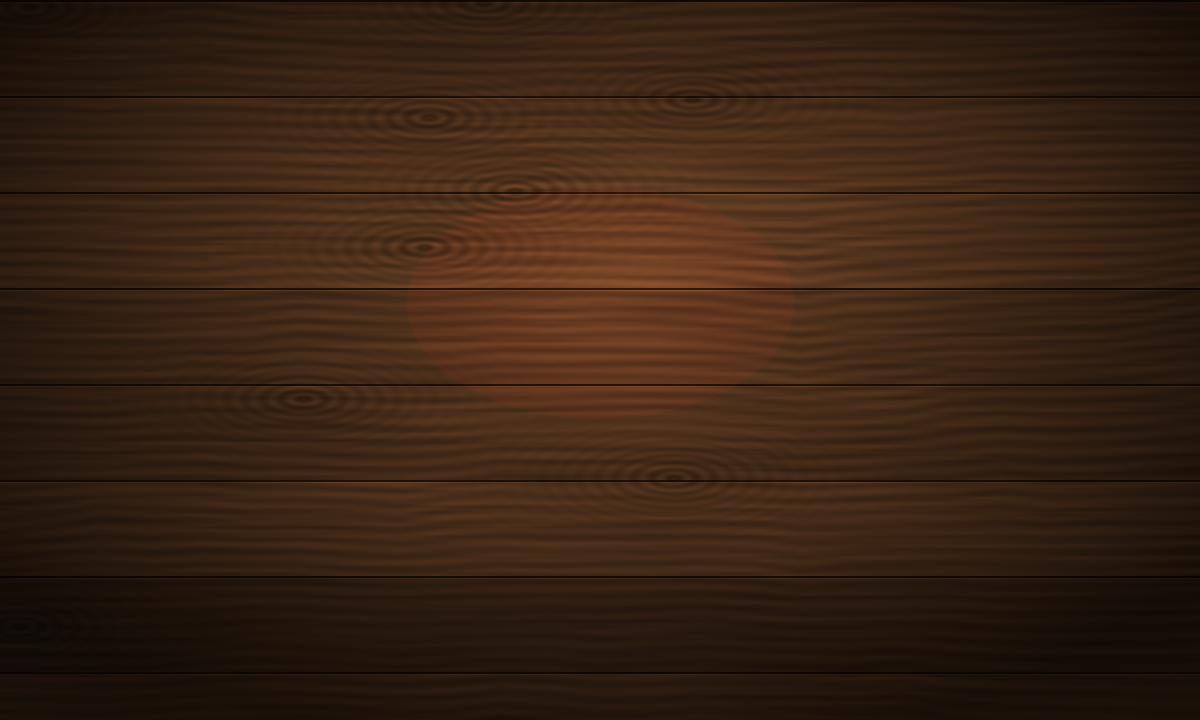
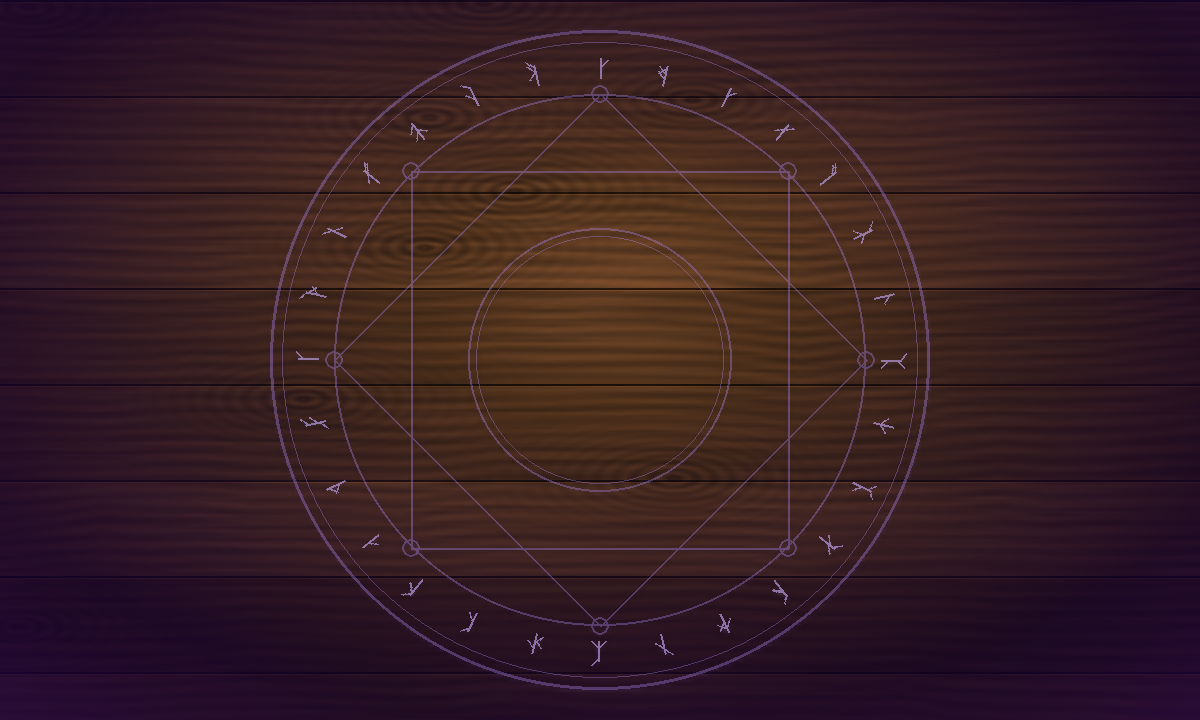
한국풍 요소를 걷어내고 마법 게임 분위기로
- 탁자: 가장자리 보랏빛 마력 안개 + 룬·팔각별 마법진 (make_theme.magic_circle)
- 모든 화면에 천천히 떠오르며 깜빡이는 마력 불빛 (ui.sparkles)
- 족자처럼 보이던 두루마리 → 금장식 모서리와 보랏빛 기운의 마법서 한 장 (ui.scroll)
- 낙관처럼 보이던 붉은 도장 번호 → 보랏빛 룬 돌 (ui.seal)
- 붓글씨처럼 보이던 명조체 제목 → 굵은 고딕 + 금색 글자 + 보랏빛 번짐 (ui.title)
- 타이틀: Grid Hunt (Cinzel Decorative) + 격자 사냥, 버튼에 보랏빛 보석 못과 마우스 올림 빛

diff --git a/ui.py b/ui.py
@@ -10,11 +10,11 @@ import os
 import pygame
 
 from settings import (W, H, FONT_NAME, INK, INK_LIGHT, PARCHMENT, CREAM, GOLD, WAX,
-                      BOARD_RECT)
+                      BOARD_RECT, ARCANE, ARCANE_LIGHT)
 
 IMAGE_DIR = os.path.join(os.path.dirname(os.path.abspath(__file__)), "assets", "images")
 SERIF = "notoserifkr,batang,applemyungjo,nanummyeongjo"   # 제목용 명조체
-BIG_SERIF = 30          # 이 크기 이상의 제목만 명조체
+BIG_SERIF = 999         # 명조체는 붓글씨처럼 보여서 쓰지 않음 (제목도 굵은 고딕 + 금빛·보랏빛)
 MIN_SIZE = 10           # 글자를 줄여서 맞출 때 최소 크기
 
 _fonts = {}    # (크기, 명조, 굵게) → 폰트 (매 프레임 새로 만들지 않도록)
@@ -100,14 +100,31 @@ def fit_size(text, size, width, serif=False):
     return size
 
 
-def title(surf, x, y, text, size=40, color=GOLD, outline=INK):
-    """테두리 있는 큰 제목 (나무 위에서도 잘 보이게)."""
-    f = font(size, serif=True, bold=True)
-    base = f.render(text, True, outline)
-    rect = base.get_rect(center=(x, y))
-    for dx, dy in ((-2, 0), (2, 0), (0, -2), (0, 2), (-2, -2), (2, 2), (2, -2), (-2, 2), (1, 3)):
-        surf.blit(base, rect.move(dx, dy))
-    surf.blit(f.render(text, True, color), rect)
+def glow_text(img, color, radius=6, strength=170):
+    """글자 모양을 흐리게 번지게 한 빛 (마법 빛남)."""
+    w, h = img.get_size()
+    pad = radius * 2
+    base = pygame.Surface((w + pad * 2, h + pad * 2), pygame.SRCALPHA)
+    tint = img.copy()
+    tint.fill((*color, 255), special_flags=pygame.BLEND_RGBA_MIN)
+    base.blit(tint, (pad, pad))
+    small = pygame.transform.smoothscale(base, (max(1, base.get_width() // radius), max(1, base.get_height() // radius)))
+    glow = pygame.transform.smoothscale(small, base.get_size())
+    glow.set_alpha(strength)
+    return glow, pad
+
+
+def title(surf, x, y, text, size=40, color=GOLD, outline=INK, glow=ARCANE, deco_font=False):
+    """빛나는 큰 제목: 보랏빛 번짐 + 진한 테두리 + 금색 글자. deco_font=True 면 영어 장식 글꼴."""
+    f = (lambda s: deco(s)) if deco_font else (lambda s: font(s))
+    img = f(size).render(text, True, color)
+    rect = img.get_rect(center=(x, y))
+    g, pad = glow_text(img, glow, max(4, size // 6))
+    surf.blit(g, (rect.x - pad, rect.y - pad))
+    edge = f(size).render(text, True, outline)
+    for dx, dy in ((-2, 0), (2, 0), (0, -2), (0, 2), (1, 3)):
+        surf.blit(edge, rect.move(dx, dy))
+    surf.blit(img, rect)
 
 
 def wrap(text, size, width, serif=False):
@@ -142,12 +159,46 @@ def wrap(text, size, width, serif=False):
 # 배경 · 양피지
 # ======================================================================
 def background(surf):
-    """화면 전체 나무 탁자."""
+    """화면 전체: 마법진이 새겨진 나무 탁자 + 떠다니는 마력 불빛."""
     bg = _image("bg_table.png")
     if bg:
         surf.blit(bg, (0, 0))
     else:
         surf.fill((70, 44, 26))
+    sparkles(surf)
+
+
+_motes = []
+
+
+def sparkles(surf):
+    """천천히 위로 떠오르며 깜빡이는 작은 마력 불빛 (보라·하늘·금). 시간에 따라 움직임."""
+    if not _motes:
+        import random
+        rng = random.Random(11)
+        for _ in range(46):
+            _motes.append((rng.uniform(0, W), rng.uniform(0, H), rng.uniform(8, 26), rng.uniform(0, 6.28),
+                           rng.choice([ARCANE_LIGHT, (150, 210, 255), GOLD]), rng.uniform(1.5, 3.2)))
+    t = pygame.time.get_ticks() / 1000
+    key = ("mote", 0)
+    if key not in _cache:
+        dot = pygame.Surface((24, 24), pygame.SRCALPHA)
+        for r in range(12, 0, -1):
+            pygame.draw.circle(dot, (255, 255, 255, int(90 * (1 - r / 12) ** 1.5)), (12, 12), r)
+        _cache[key] = dot
+    for x0, y0, speed, phase, color, size in _motes:
+        y = (y0 - t * speed) % (H + 40) - 20
+        x = x0 + math.sin(t * 0.6 + phase) * 14
+        twinkle = 0.45 + 0.55 * (0.5 + 0.5 * math.sin(t * 2.2 + phase * 3))
+        ck = ("mote", color)
+        if ck not in _cache:
+            d = _cache[key].copy()
+            d.fill((*color, 255), special_flags=pygame.BLEND_RGBA_MULT)
+            _cache[ck] = d
+        d = _cache[ck]
+        d.set_alpha(int(255 * twinkle))
+        surf.blit(d, (x - 12, y - 12))
+        pygame.draw.circle(surf, color, (x, y), max(1, int(size * twinkle * 0.6)))
 
 
 def board(surf):
@@ -239,37 +290,54 @@ def mat(surf, rect):
 
 
 def scroll(surf, rect):
-    """위아래에 나무 막대가 달린 두루마리 양피지."""
+    """마법서 한 장: 보랏빛 마력이 번지는 양피지 + 금색 모서리 장식 + 위쪽 가운데 보석."""
     rect = pygame.Rect(rect)
-    panel(surf, rect, radius=4)
-    for y in (rect.y - 8, rect.bottom - 10):
-        rod = pygame.Rect(rect.x - 18, y, rect.w + 36, 18)
-        pygame.draw.rect(surf, (98, 58, 30), rod, border_radius=9)
-        pygame.draw.line(surf, (150, 100, 58), (rod.x + 10, rod.y + 5), (rod.right - 10, rod.y + 5), 3)
-        pygame.draw.rect(surf, INK, rod, 2, border_radius=9)
-        for x in (rod.x - 4, rod.right - 10):                         # 막대 끝 손잡이
-            pygame.draw.circle(surf, GOLD, (x + 7, rod.centery), 10)
-            pygame.draw.circle(surf, INK, (x + 7, rod.centery), 10, 2)
+    key = ("aura", rect.size)
+    if key not in _cache:
+        a = pygame.Surface((rect.w + 80, rect.h + 80), pygame.SRCALPHA)
+        pygame.draw.rect(a, (*ARCANE, 150), (40, 40, rect.w, rect.h), border_radius=18)
+        small = pygame.transform.smoothscale(a, (max(1, a.get_width() // 14), max(1, a.get_height() // 14)))
+        _cache[key] = pygame.transform.smoothscale(small, a.get_size())
+    surf.blit(_cache[key], (rect.x - 40, rect.y - 40))
+    panel(surf, rect, radius=8)
+    pygame.draw.rect(surf, GOLD, rect.inflate(-14, -14), 2, border_radius=6)
+    for sx, sy in ((1, 1), (-1, 1), (1, -1), (-1, -1)):           # 모서리 금장식 (꺾쇠 + 작은 원)
+        cx = rect.x + 7 if sx > 0 else rect.right - 8
+        cy = rect.y + 7 if sy > 0 else rect.bottom - 8
+        pygame.draw.lines(surf, GOLD, False, [(cx, cy + sy * 46), (cx, cy), (cx + sx * 46, cy)], 5)
+        pygame.draw.lines(surf, INK, False, [(cx, cy + sy * 46), (cx, cy), (cx + sx * 46, cy)], 1)
+        pygame.draw.circle(surf, GOLD, (cx + sx * 14, cy + sy * 14), 6)
+        pygame.draw.circle(surf, ARCANE, (cx + sx * 14, cy + sy * 14), 3)
+    gem(surf, (rect.centerx, rect.y + 7), 11)
+
+
+def gem(surf, center, r):
+    """마름모 보석 (보라) + 금 테."""
+    cx, cy = center
+    pts = [(cx, cy - r), (cx + r, cy), (cx, cy + r), (cx - r, cy)]
+    pygame.draw.polygon(surf, GOLD, [(cx, cy - r - 4), (cx + r + 4, cy), (cx, cy + r + 4), (cx - r - 4, cy)])
+    pygame.draw.polygon(surf, ARCANE, pts)
+    pygame.draw.polygon(surf, ARCANE_LIGHT, [(cx, cy - r), (cx + r // 2, cy - r // 3), (cx - r // 2, cy - r // 3)])
+    pygame.draw.polygon(surf, INK, [(cx, cy - r - 4), (cx + r + 4, cy), (cx, cy + r + 4), (cx - r - 4, cy)], 2)
 
 
 def seal(surf, center, text, radius=14):
-    """봉랍 도장 (빨간 밀랍 + 글자). 행동 큐 순서 번호 등."""
-    key = ("seal", radius)
+    """룬 돌: 보랏빛으로 빛나는 짙은 원판 + 금 테 + 번호 (행동 큐 순서 등)."""
+    key = ("rune", radius)
     if key not in _cache:
-        s = pygame.Surface((radius * 2 + 4, radius * 2 + 4), pygame.SRCALPHA)
-        c = radius + 2
-        pts = []
-        for i in range(18):                                          # 울퉁불퉁한 가장자리
-            a = i * math.pi / 9
-            r = radius + (2 if i % 2 else -1)
-            pts.append((c + r * math.cos(a), c + r * math.sin(a)))
-        pygame.draw.polygon(s, WAX, pts)
-        pygame.draw.circle(s, (178, 52, 44), (c, c), radius - 4)
-        pygame.draw.circle(s, (110, 20, 18), (c, c), radius - 4, 2)
+        size = radius * 2 + 16
+        s = pygame.Surface((size, size), pygame.SRCALPHA)
+        c = size // 2
+        for r in range(radius + 8, radius, -1):                 # 바깥 빛
+            pygame.draw.circle(s, (*ARCANE, int(70 * (1 - (r - radius) / 8))), (c, c), r)
+        pygame.draw.circle(s, (46, 30, 70), (c, c), radius)
+        pygame.draw.circle(s, (78, 54, 120), (c - radius // 4, c - radius // 4), radius // 2)
+        pygame.draw.circle(s, GOLD, (c, c), radius, 2)
+        pygame.draw.circle(s, ARCANE_LIGHT, (c, c), radius - 4, 1)
         _cache[key] = s
     img = _cache[key]
     surf.blit(img, img.get_rect(center=center))
-    label(surf, center[0], center[1], text, max(11, radius - 2), CREAM)
+    deco_label(surf, center[0], center[1] + 1, text, max(10, radius), ARCANE_LIGHT)
 
 
 def stars_text(n, total=3):
@@ -301,8 +369,9 @@ def _plaque(size, hover):
         s.blit(mask, (0, 0), special_flags=pygame.BLEND_RGBA_MULT)
         pygame.draw.rect(s, (40, 24, 12), (0, 0, w, h), 3, border_radius=10)
         pygame.draw.rect(s, GOLD if hover else (196, 150, 70), (5, 5, w - 10, h - 10), 2, border_radius=7)
-        for x, y in ((10, 10), (w - 11, 10), (10, h - 11), (w - 11, h - 11)):   # 모서리 금 못
-            pygame.draw.circle(s, GOLD, (x, y), 3)
+        for x, y in ((10, 10), (w - 11, 10), (10, h - 11), (w - 11, h - 11)):   # 모서리 보랏빛 보석 못
+            pygame.draw.circle(s, GOLD, (x, y), 4)
+            pygame.draw.circle(s, ARCANE_LIGHT if hover else ARCANE, (x, y), 2)
         _cache[key] = s
     return _cache[key]
 
@@ -318,6 +387,14 @@ class Button:
     def draw(self, surf):
         hover = self.rect.collidepoint(pygame.mouse.get_pos())
         surf.blit(_shadow(self.rect.size, 10), (self.rect.x - 20 + 3, self.rect.y - 20 + 5))
+        if hover:                                                   # 마우스를 올리면 보랏빛 마력이 번짐
+            key = ("btnglow", self.rect.size)
+            if key not in _cache:
+                gsurf = pygame.Surface((self.rect.w + 40, self.rect.h + 40), pygame.SRCALPHA)
+                pygame.draw.rect(gsurf, (*ARCANE, 200), (20, 20, *self.rect.size), border_radius=12)
+                small = pygame.transform.smoothscale(gsurf, (max(1, gsurf.get_width() // 8), max(1, gsurf.get_height() // 8)))
+                _cache[key] = pygame.transform.smoothscale(small, gsurf.get_size())
+            surf.blit(_cache[key], (self.rect.x - 20, self.rect.y - 20))
         surf.blit(_plaque(self.rect.size, hover), self.rect)
         cx, cy = self.rect.center
         size = fit_size(self.text, self.size, self.rect.w - 24)         # 명판 안에 들어가게

diff --git a/assets/make_theme.py b/assets/make_theme.py
@@ -105,13 +105,60 @@ def table():
     rgb[seam < 2] *= 0.35
     rgb[(seam >= 2) & (seam < 3)] *= 1.25
 
-    # 촛불 빛: 가운데 따뜻하게, 가장자리 어둡게
+    # 촛불 빛은 가운데만 따뜻하게, 가장자리는 보랏빛 마력 안개로 어둡게
     cx, cy = w * 0.5, h * 0.42
     r = np.sqrt(((x - cx) / w) ** 2 + ((y - cy) / h) ** 2)
-    light = np.clip(1.25 - r * 1.55, 0.28, 1.25)
+    light = np.clip(1.2 - r * 1.7, 0.22, 1.2)
     rgb = rgb * light[:, :, None]
-    rgb[:, :, 0] += 10 * (light > 1)
-    return to_surface(rgb)
+    fog = np.clip(r * 1.6 - 0.25, 0, 1) * (0.6 + 0.4 * fbm(h, w, base=3, octaves=3))
+    rgb[:, :, 0] += 26 * fog
+    rgb[:, :, 2] += 58 * fog
+    surf = to_surface(rgb)
+    magic_circle(surf, (w // 2, h // 2), 330)
+    return surf
+
+
+def rune(surf, center, size, seed, color):
+    """선으로 그린 룬 글자 하나 (세로 줄기 + 가지 몇 개). seed 마다 모양이 다름."""
+    rng = np.random.default_rng(seed)
+    cx, cy = center
+    h = size
+    pygame.draw.line(surf, color, (cx, cy - h / 2), (cx, cy + h / 2), 2)
+    for _ in range(int(rng.integers(1, 4))):
+        y0 = cy + rng.uniform(-h / 2, h / 4)
+        side = rng.choice([-1, 1])
+        y1 = y0 + rng.choice([-1, 1]) * h * 0.35
+        pygame.draw.line(surf, color, (cx, y0), (cx + side * h * 0.35, y1), 2)
+
+
+def magic_circle(surf, center, radius):
+    """탁자에 새겨진 마법진: 원 여러 개 + 팔각별(사각형 두 개) + 룬 고리 + 은은한 보랏빛."""
+    w, h = surf.get_size()
+    lines = pygame.Surface((w, h), pygame.SRCALPHA)
+    col = (180, 140, 250, 85)
+    cx, cy = center
+    for rr, width in ((radius, 3), (radius - 12, 1), (radius - 64, 2), (radius * 0.4, 2), (radius * 0.4 - 8, 1)):
+        pygame.draw.circle(lines, col, center, int(rr), width)
+    inner = radius - 64
+    for k in range(2):                                           # 팔각별: 45도 엇갈린 사각형 두 개
+        pts = [(cx + inner * math.cos(math.radians(k * 45 + i * 90)),
+                cy + inner * math.sin(math.radians(k * 45 + i * 90))) for i in range(4)]
+        pygame.draw.polygon(lines, col, pts, 2)
+    n = 28
+    for i in range(n):                                           # 바깥 고리의 룬
+        a = math.radians(i * 360 / n)
+        r = radius - 38
+        glyph = pygame.Surface((30, 30), pygame.SRCALPHA)
+        rune(glyph, (15, 15), 20, i, (205, 175, 255, 150))
+        glyph = pygame.transform.rotate(glyph, -math.degrees(a) - 90)
+        lines.blit(glyph, glyph.get_rect(center=(cx + r * math.cos(a), cy + r * math.sin(a))))
+    for i in range(8):                                           # 팔각별 꼭짓점의 작은 원
+        a = math.radians(i * 45)
+        pygame.draw.circle(lines, col, (cx + inner * math.cos(a), cy + inner * math.sin(a)), 9, 2)
+    glow = blur(lines, 5)
+    glow.set_alpha(150)
+    surf.blit(glow, (0, 0))
+    surf.blit(lines, (0, 0))
 
 
 # ======================================================================

diff --git a/scenes.py b/scenes.py
@@ -79,11 +79,12 @@ class TitleScene(Scene):
             assets.draw_item(surf, pygame.Rect(930 + k * 54, 600, 56, 56), b)
 
         ui.scroll(surf, (W // 2 - 290, 96, 580, 320))
-        label(surf, W // 2, 150, "마법 학교 졸업 시험", 18, INK_LIGHT, width=500, max_lines=1)
-        label(surf, W // 2, 228, "격자 사냥", 76, INK, serif=True, width=500, max_lines=1)
-        pygame.draw.line(surf, INK_LIGHT, (W // 2 - 180, 290), (W // 2 + 180, 290), 2)
-        pygame.draw.polygon(surf, INK, [(W // 2, 282), (W // 2 + 8, 290), (W // 2, 298), (W // 2 - 8, 290)])
-        label(surf, W // 2, 343, "카드로 행동을 짜고, 탄창 하나로\n지하 미궁을 탈출하라", 20, INK, width=440, max_lines=2)
+        label(surf, W // 2, 146, "마법 학교 졸업 시험", 17, INK_LIGHT, width=500, max_lines=1)
+        ui.title(surf, W // 2, 210, "Grid Hunt", 70, deco_font=True)
+        label(surf, W // 2, 268, "격 자 사 냥", 30, INK, width=500, max_lines=1)
+        pygame.draw.line(surf, INK_LIGHT, (W // 2 - 180, 298), (W // 2 + 180, 298), 2)
+        ui.gem(surf, (W // 2, 298), 6)
+        label(surf, W // 2, 346, "카드로 주문 순서를 짜고, 마법 탄창 하나로\n지하 미궁을 탈출하라", 19, INK, width=440, max_lines=2)
         self.start.draw(surf)
 
 
@@ -836,7 +837,7 @@ class PauseScene(Scene):
             dim = pygame.Surface((W, H), pygame.SRCALPHA)
             dim.fill((10, 5, 0, 200))
             surf.blit(dim, (0, 0))
-        ui.panel(surf, (W // 2 - 260, 190, 520, 310))
+        ui.scroll(surf, (W // 2 - 260, 190, 520, 310))
         label(surf, W // 2, 238, "일시정지", 36, INK, serif=True, width=460, max_lines=1)
         label(surf, W // 2, 290, "카드 끌어 놓기 · Enter 실행 · R 다시 시작 · ESC 계속", 15, INK_LIGHT, width=460, max_lines=2)
         self.resume.draw(surf)

diff --git a/settings.py b/settings.py
@@ -17,7 +17,9 @@ PARCHMENT = (234, 214, 172)  # 양피지
 CREAM = (246, 230, 196)      # 나무 위에 쓰는 밝은 글자
 LEATHER = (110, 64, 34)      # 가죽 (버튼)
 GOLD = (226, 174, 74)        # 금색 장식
-WAX = (150, 34, 30)          # 봉랍 (큐 번호)
+WAX = (150, 34, 30)          # 붉은 잉크 (피해 숫자, 경고)
+ARCANE = (138, 96, 230)      # 마력 보라 (룬 돌, 빛)
+ARCANE_LIGHT = (206, 180, 255)
 BOARD_RECT = (272, 6, 516, 512)   # 격자를 담은 양피지 지도 (x, y, 너비, 높이)
 
 # ---------- 기본 색 ----------

diff --git a/assets/images/README.md b/assets/images/README.md
@@ -17,7 +17,10 @@
 | `card_turn_left.png` / `card_turn_right.png` | 왼쪽 보기 / 오른쪽 보기 카드 | 237x330 |
 | `card_fire.png` / `card_reload.png` | 발사 / 재장전 카드 | 237x330 |
 
-### 전체 컨셉: 나무 탁자 위 양피지 보드게임 (중세풍)
+### 전체 컨셉: 마법진이 새겨진 나무 탁자 위 양피지 보드게임 (중세 마법풍)
+
+마법 느낌: 탁자 가장자리 보랏빛 마력 안개 + 룬 마법진(`make_theme.py` 의 `magic_circle`), 떠다니는 마력 불빛(`ui.sparkles`),
+번호는 룬 돌(`ui.seal`), 두루마리 대신 금장식 마법서 한 장(`ui.scroll`), 제목은 보랏빛으로 빛나는 금색 글자(`ui.title`).
 
 `python assets/make_theme.py` 로 만드는 그림 (numpy 필요, 게임 실행에는 필요 없음)
 | 파일 | 내용 |
